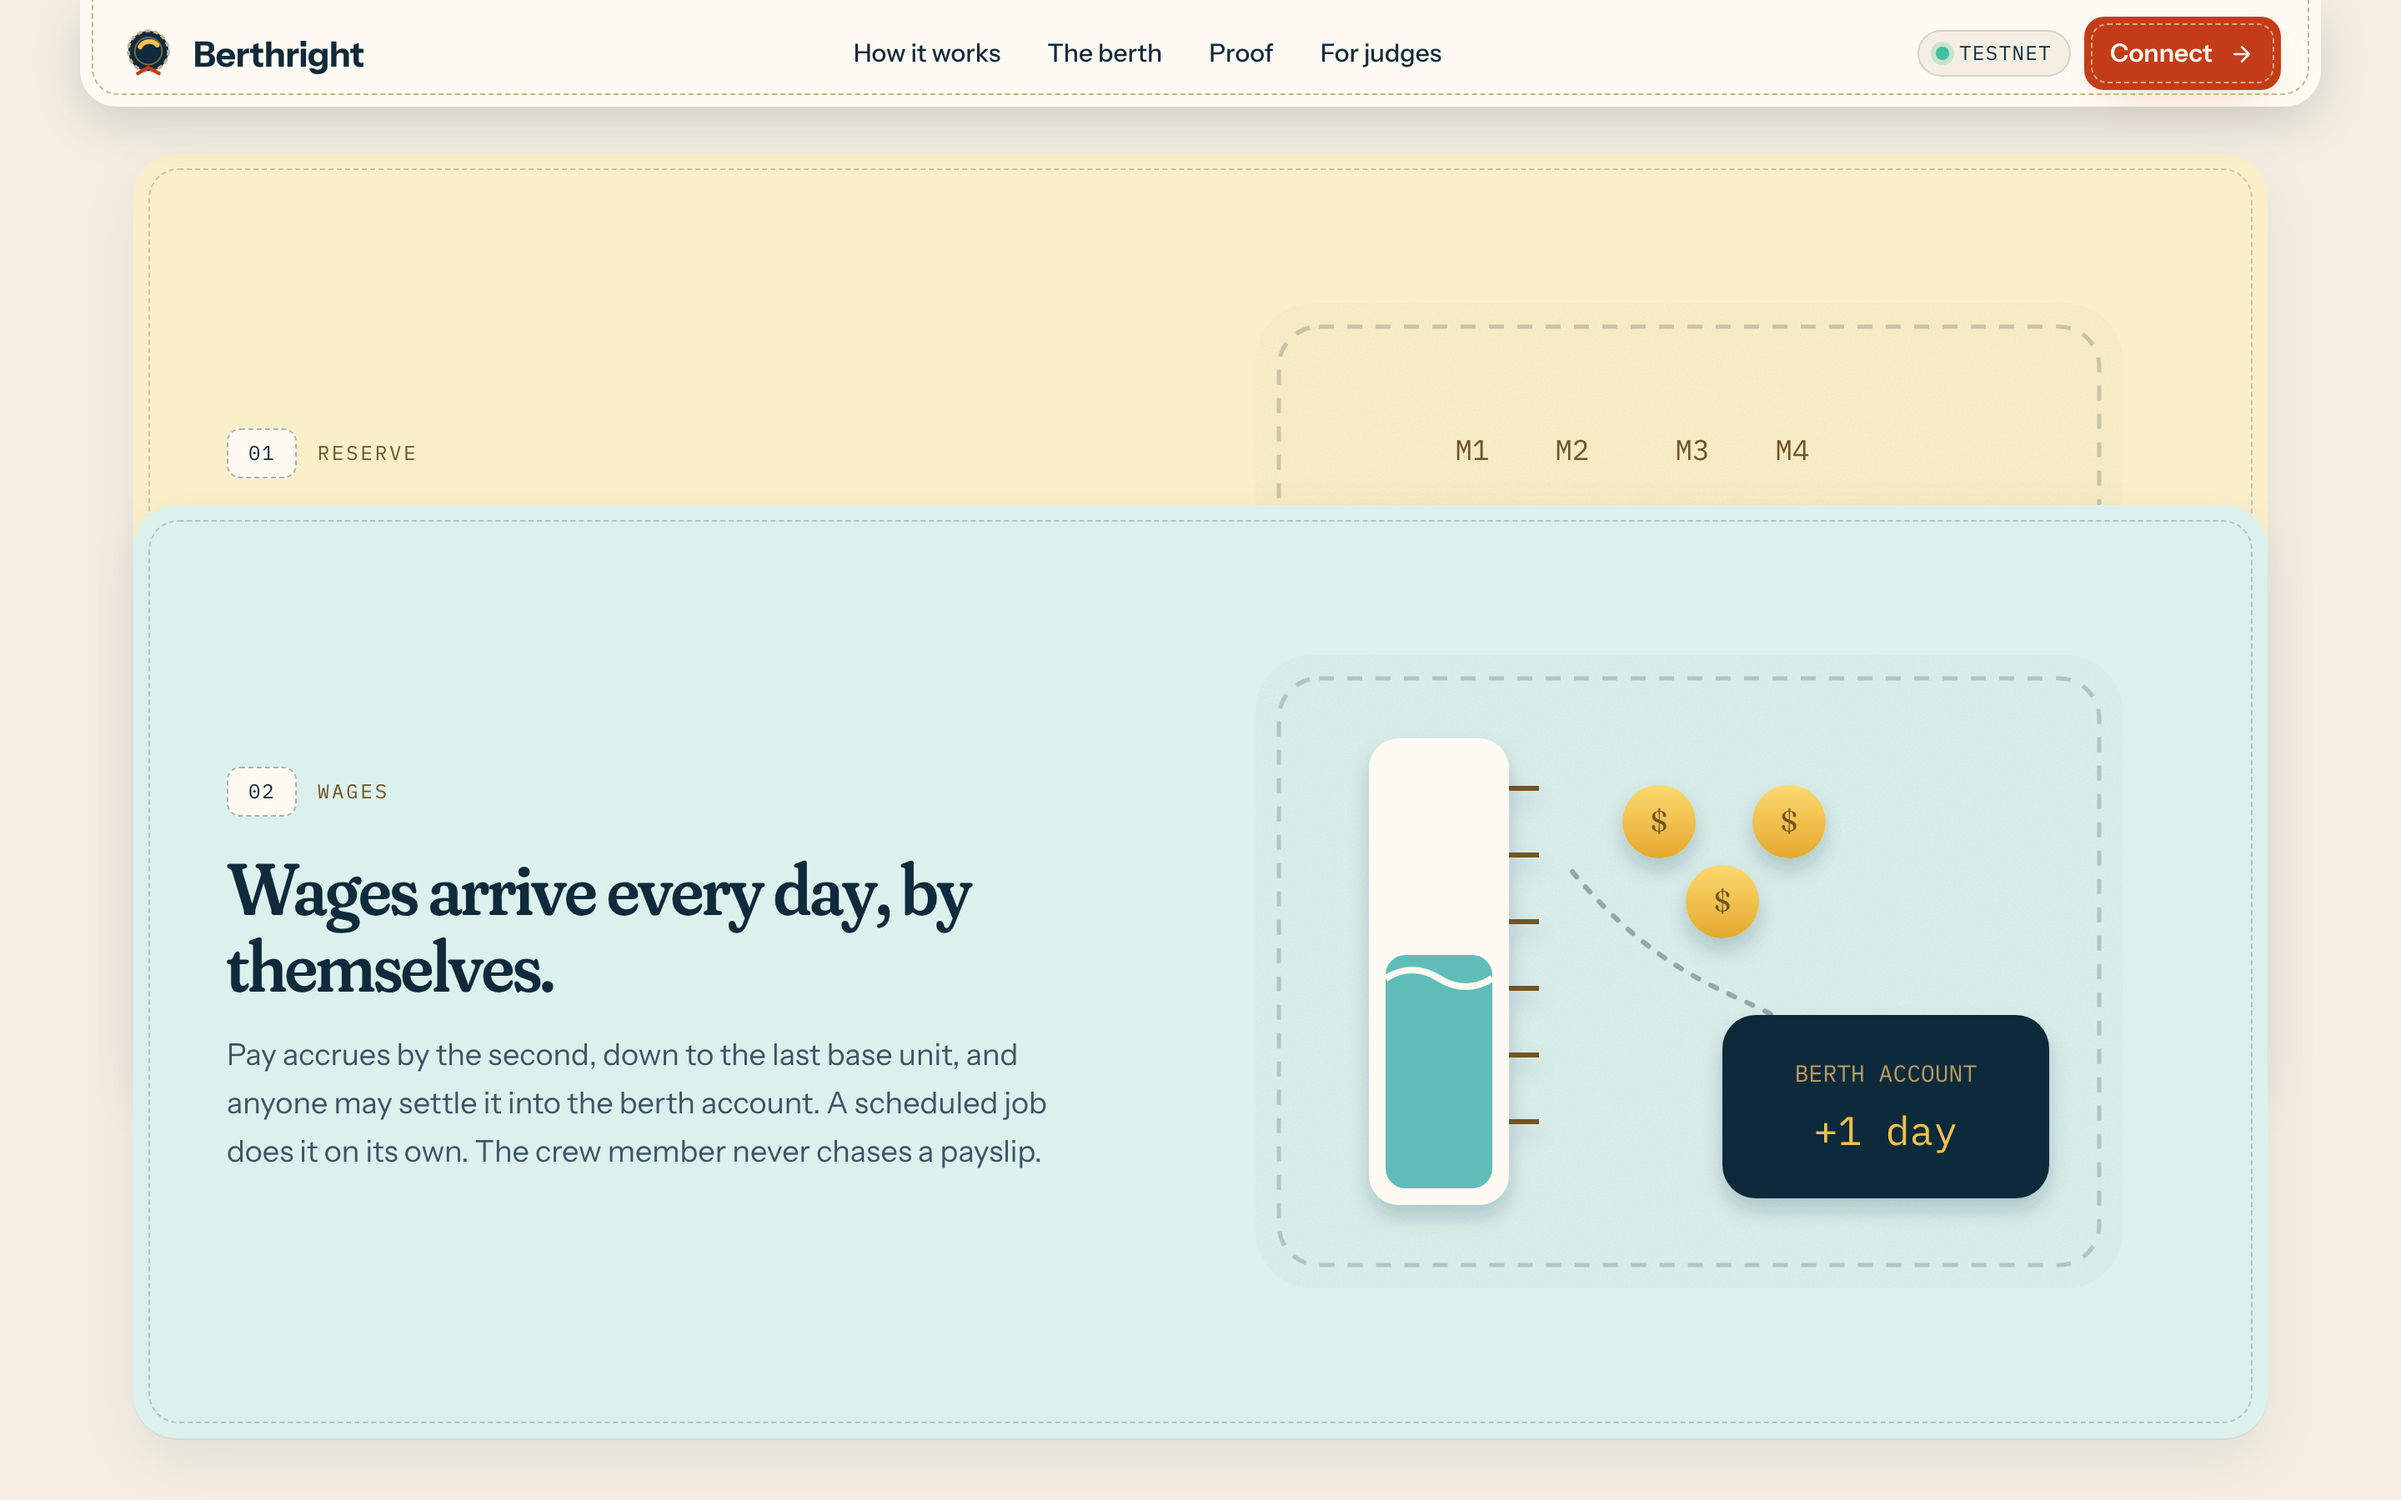
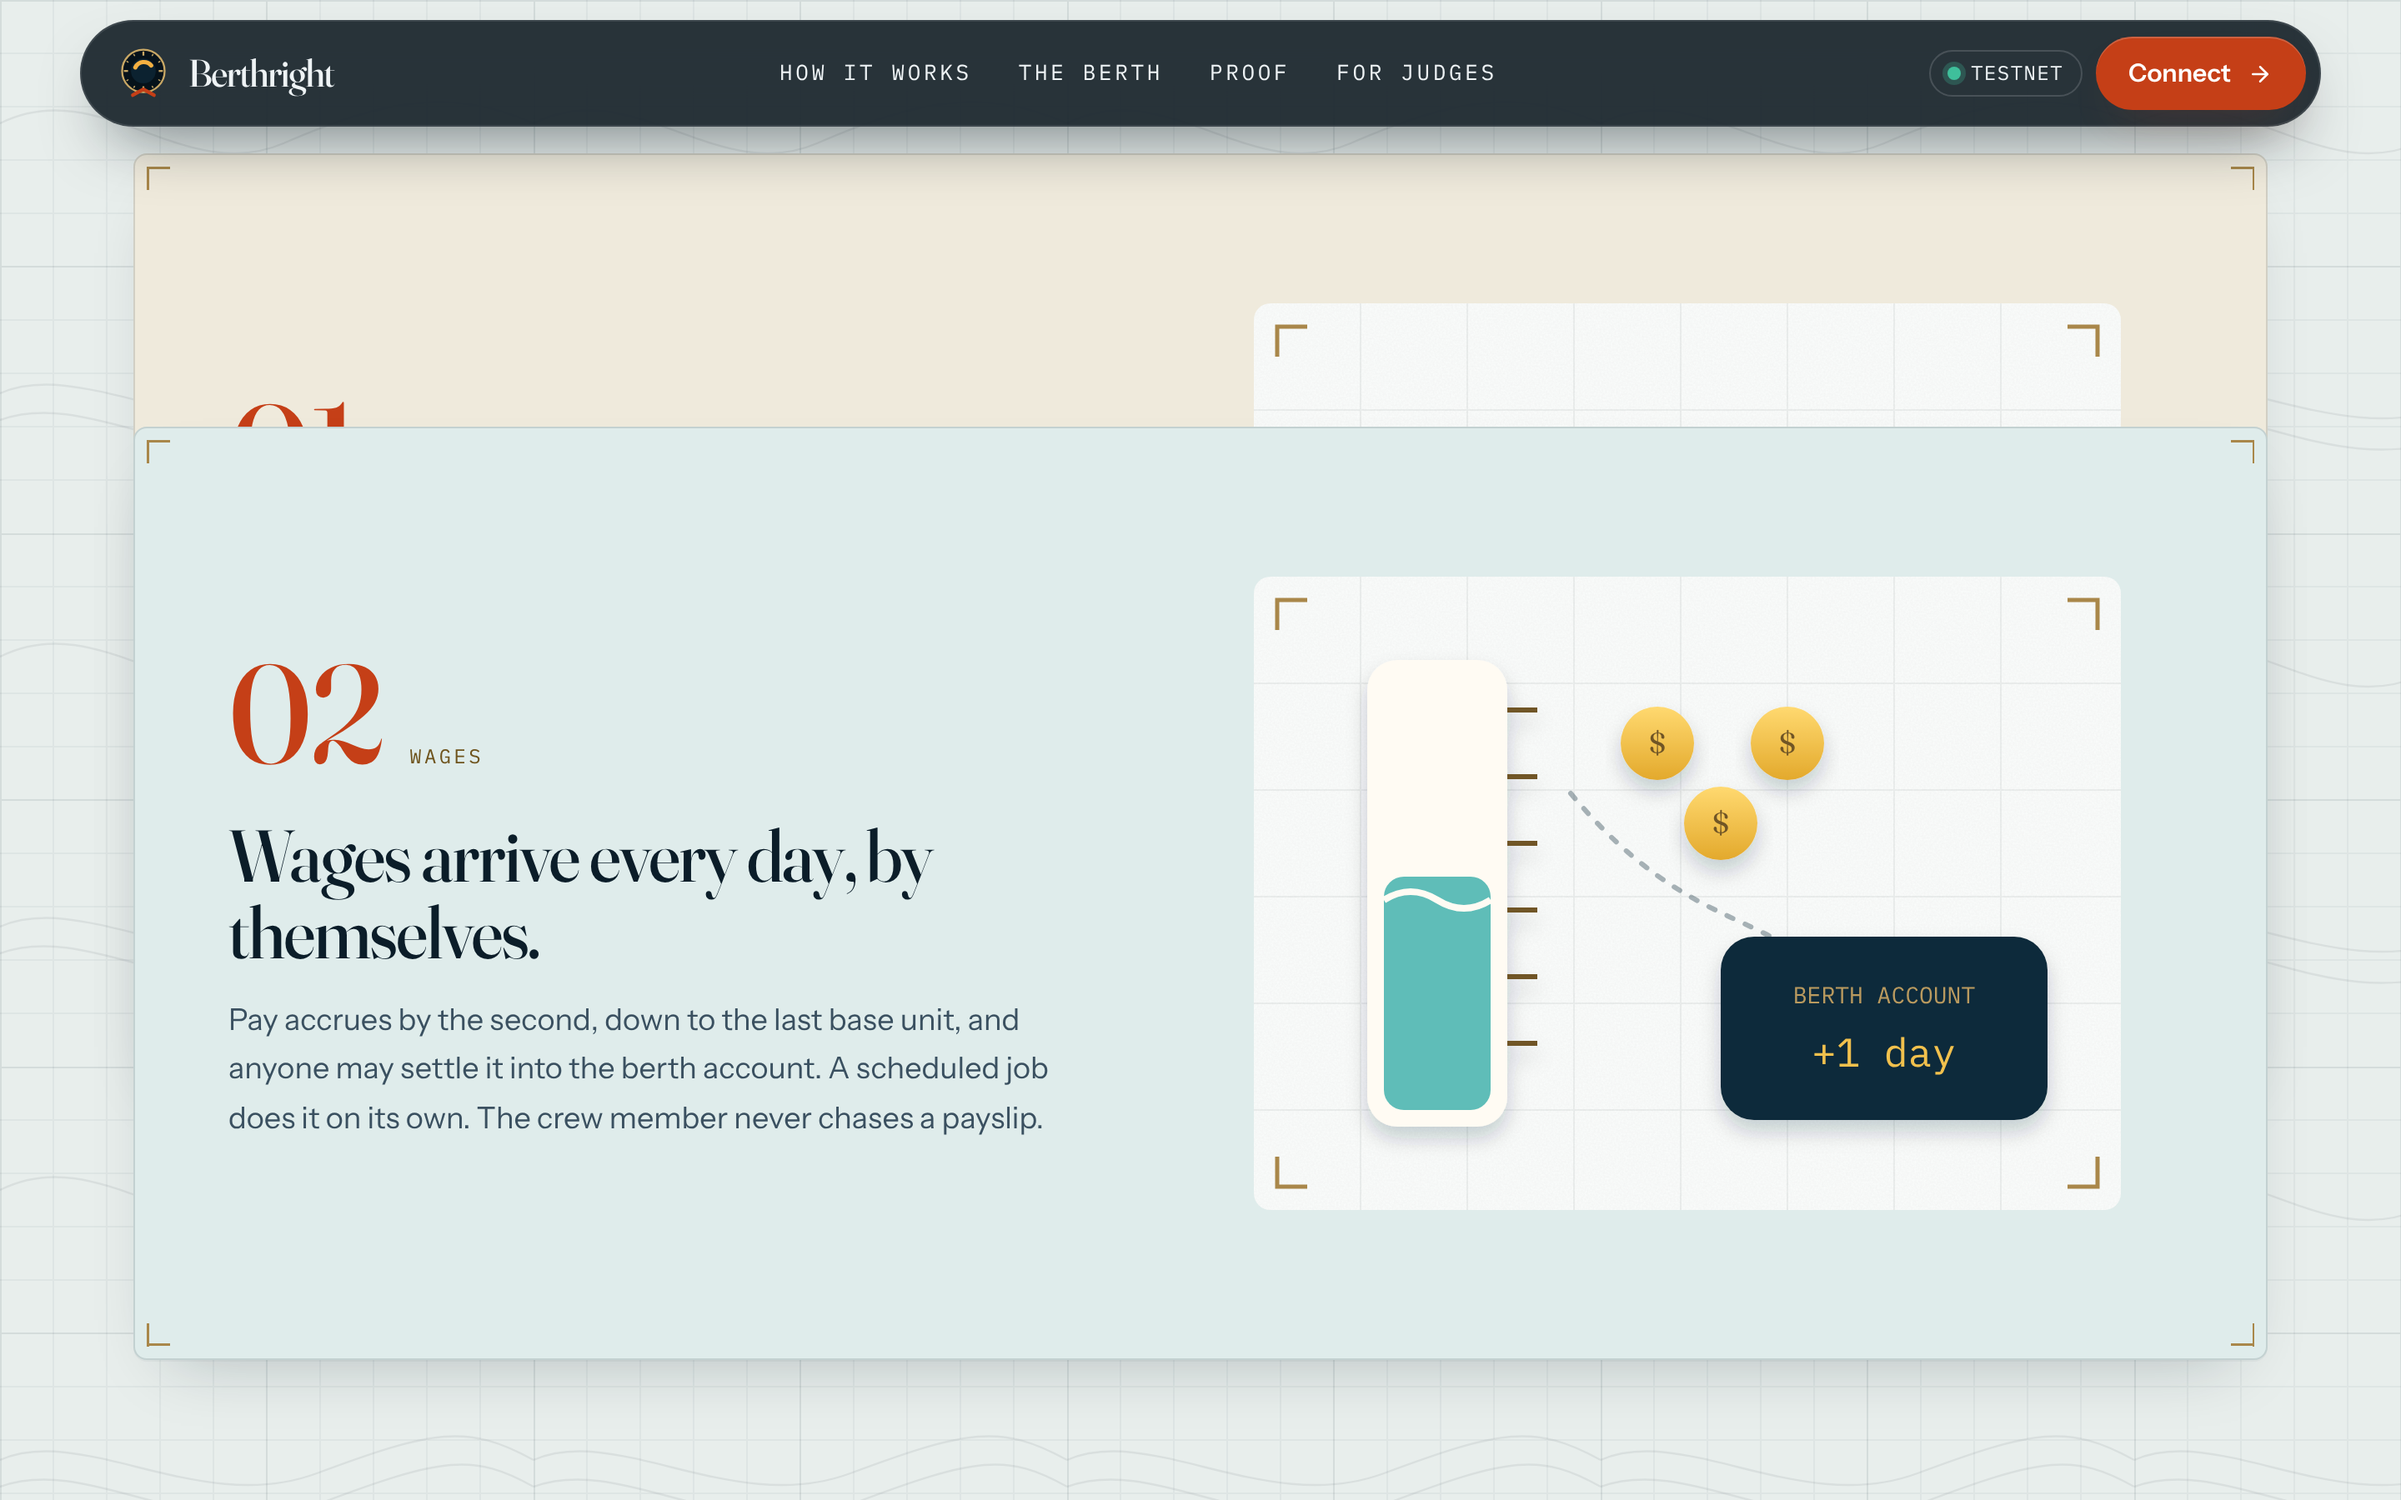
README screenshots from the Chartroom design

diff --git a/README.md b/README.md
@@ -23,7 +23,7 @@
   <img src="https://img.shields.io/badge/licence-MIT-c23d17" alt="MIT">
 </p>
 
-<p align="center"><img src="docs/screens/landing.png" alt="The Berthright landing page: a clay harbour at dawn with a seafarer beside the wage chest, a rope to a ship whose portholes are lit, and the headline Four months of wages, already on board" width="100%"></p>
+<p align="center"><img src="docs/screens/landing.png" alt="The Berthright landing page at night: seven drawn plates scattered round the headline Four months of wages, already on board, including the berth NFT with a full reserve bar, the ship at anchor, the daily wage ledger and the abandonment flare" width="100%"></p>
 
 ## At a glance
 
@@ -96,7 +96,7 @@ His reply was *"Alright.. Noted."* We record it as a review of the two rules, no
 </tr>
 </table>
 
-<p align="center"><img src="docs/screens/how.png" alt="How it works: stacked stitched cards, each with a clay scene for the reserve, the daily wages, the fenced allotment and the release" width="100%"></p>
+<p align="center"><img src="docs/screens/how.png" alt="How it works: stacked chart plates with brass corner ticks, each with a scene for the reserve, the daily wages, the fenced allotment and the release" width="100%"></p>
 
 **What the human does that software cannot:** sign on and off at the gangway; confirm the wage from their own contract (a model may read the photo, the crew member decides); choose who gets the allotment; hand the berth to the relief. After sign-on Berthright asks for at most one decision a month. Always shown, whatever else: abandonment declared, guarantee released, berth frozen, hand-over requested.
 
